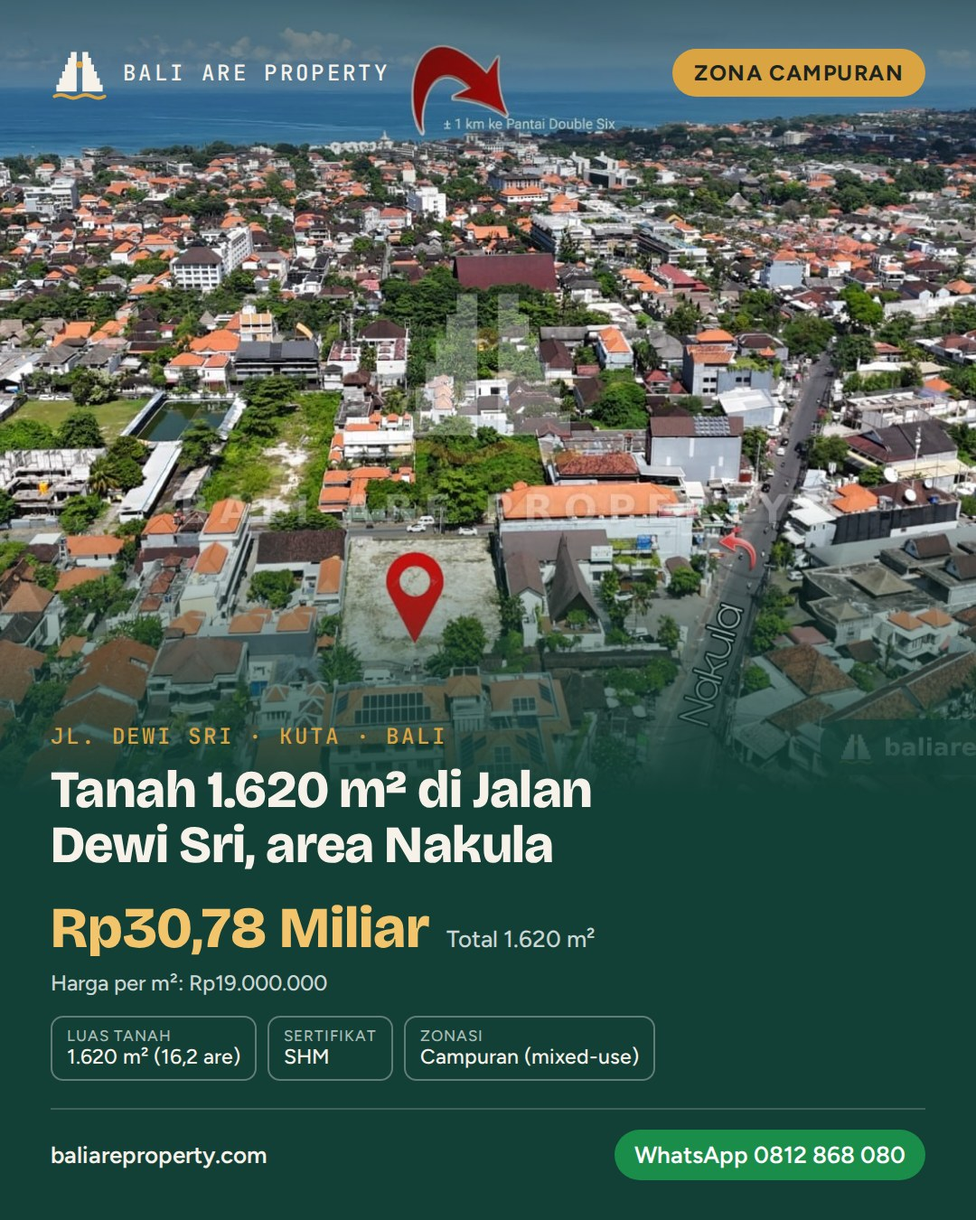
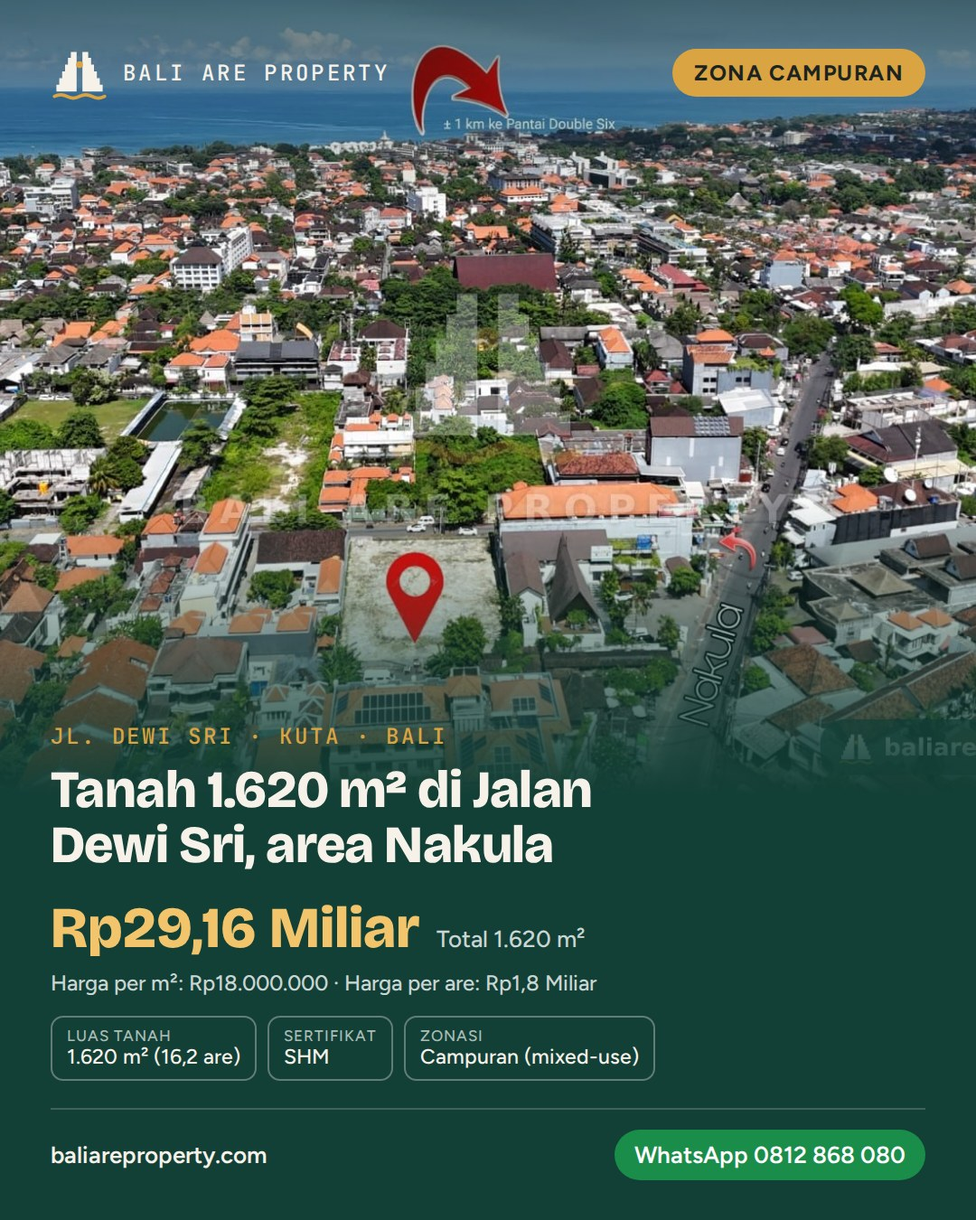
Build otomatis setelah perubahan 5272e1f

Changed region(s): [[0.1222, 0.7156, 0.6111, 0.8089]]

diff --git a/ru/listing/tanah-1620-m2-di-jalan-dewi-sri-area-nakula.html b/ru/listing/tanah-1620-m2-di-jalan-dewi-sri-area-nakula.html
@@ -148,7 +148,7 @@ footer>span{min-width:0}
 
 <title>Продажа участка 1 620 м² (смешанная зона) на Деви Шри, Кута, Бали</title>
 <!--seo-->
-<meta name="description" content="Участок 16,2 аре, SHM, смешанная зона, Джл. Деви Шри (район Накула), Кута. 19 млн IDR/м², всего 30,78 млрд IDR. Коммерческая локация. Пишите в WhatsApp.">
+<meta name="description" content="Участок 16,2 аре, SHM, смешанная зона, Джл. Деви Шри (район Накула), Кута. 18 млн IDR/м² (1,8 млрд/ар), всего 29,16 млрд IDR. Коммерческая локация. Пишите в WhatsApp.">
 <link rel="canonical" href="https://baliareproperty.com/ru/listing/tanah-1620-m2-di-jalan-dewi-sri-area-nakula.html">
 <link rel="alternate" hreflang="id" href="https://baliareproperty.com/listing/tanah-1620-m2-di-jalan-dewi-sri-area-nakula.html">
 <link rel="alternate" hreflang="en" href="https://baliareproperty.com/en/listing/tanah-1620-m2-di-jalan-dewi-sri-area-nakula.html">
@@ -164,12 +164,12 @@ footer>span{min-width:0}
 <meta property="og:type" content="website">
 <meta property="og:site_name" content="Bali Are Property">
 <meta property="og:title" content="Продажа участка 1 620 м² (смешанная зона) на Деви Шри, Кута, Бали">
-<meta property="og:description" content="Участок 16,2 аре, SHM, смешанная зона, Джл. Деви Шри (район Накула), Кута. 19 млн IDR/м², всего 30,78 млрд IDR. Коммерческая локация. Пишите в WhatsApp.">
+<meta property="og:description" content="Участок 16,2 аре, SHM, смешанная зона, Джл. Деви Шри (район Накула), Кута. 18 млн IDR/м² (1,8 млрд/ар), всего 29,16 млрд IDR. Коммерческая локация. Пишите в WhatsApp.">
 <meta property="og:url" content="https://baliareproperty.com/ru/listing/tanah-1620-m2-di-jalan-dewi-sri-area-nakula.html">
 <meta property="og:image" content="https://baliareproperty.com/img/wm/tanah-1620-m2-di-jalan-dewi-sri-area-nakula/1.jpg">
 <meta property="og:locale" content="ru_RU">
 <meta name="twitter:card" content="summary_large_image">
-<script type="application/ld+json">{"@context":"https://schema.org","@graph":[{"@type":"RealEstateAgent","@id":"https://baliareproperty.com/#agent","name":"Bali Are Property","url":"https://baliareproperty.com/","telephone":"+62812868080","image":"https://baliareproperty.com/og.png","logo":"https://baliareproperty.com/logo.png","areaServed":{"@type":"Place","name":"Bali, Indonesia"},"address":{"@type":"PostalAddress","addressRegion":"Bali","addressCountry":"ID"}},{"@type":"RealEstateListing","name":"Участок 1 620 м² на Jalan Dewi Sri, район Накула","description":"Участок 16,2 аре, SHM, смешанная зона, Джл. Деви Шри (район Накула), Кута. 19 млн IDR/м², всего 30,78 млрд IDR. Коммерческая локация. Пишите в WhatsApp.","url":"https://baliareproperty.com/ru/listing/tanah-1620-m2-di-jalan-dewi-sri-area-nakula.html","inLanguage":"ru","image":["https://baliareproperty.com/img/wm/tanah-1620-m2-di-jalan-dewi-sri-area-nakula/1.jpg","https://baliareproperty.com/img/wm/tanah-1620-m2-di-jalan-dewi-sri-area-nakula/2.jpg","https://baliareproperty.com/img/wm/tanah-1620-m2-di-jalan-dewi-sri-area-nakula/3.jpg"],"contentLocation":{"@type":"Place","name":"Jl. Dewi Sri, Kuta, Bali, Indonesia","address":{"@type":"PostalAddress","streetAddress":"Jl. Dewi Sri","addressLocality":"Kuta","addressRegion":"Bali","addressCountry":"ID"}},"additionalProperty":[{"@type":"PropertyValue","name":"Площадь участка","value":"1 620 м² (16,2 ар)"},{"@type":"PropertyValue","name":"Размеры","value":"30 × 54 м"},{"@type":"PropertyValue","name":"Документ","value":"SHM"},{"@type":"PropertyValue","name":"Зонирование","value":"Смешанная"},{"@type":"PropertyValue","name":"Ориентация","value":"Запад"},{"@type":"PropertyValue","name":"Локация","value":"Jl. Dewi Sri, Накула"}],"offers":{"@type":"Offer","priceCurrency":"IDR","availability":"https://schema.org/InStock","seller":{"@id":"https://baliareproperty.com/#agent"},"price":30780000000}},{"@type":"BreadcrumbList","itemListElement":[{"@type":"ListItem","position":1,"name":"Bali Are Property","item":"https://baliareproperty.com/ru/"},{"@type":"ListItem","position":2,"name":"Земля, виллы и дома на продажу на Бали – объекты | Bali Are Property","item":"https://baliareproperty.com/ru/listings.html"},{"@type":"ListItem","position":3,"name":"Участок 1 620 м² на Jalan Dewi Sri, район Накула","item":"https://baliareproperty.com/ru/listing/tanah-1620-m2-di-jalan-dewi-sri-area-nakula.html"}]}]}</script>
+<script type="application/ld+json">{"@context":"https://schema.org","@graph":[{"@type":"RealEstateAgent","@id":"https://baliareproperty.com/#agent","name":"Bali Are Property","url":"https://baliareproperty.com/","telephone":"+62812868080","image":"https://baliareproperty.com/og.png","logo":"https://baliareproperty.com/logo.png","areaServed":{"@type":"Place","name":"Bali, Indonesia"},"address":{"@type":"PostalAddress","addressRegion":"Bali","addressCountry":"ID"}},{"@type":"RealEstateListing","name":"Участок 1 620 м² на Jalan Dewi Sri, район Накула","description":"Участок 16,2 аре, SHM, смешанная зона, Джл. Деви Шри (район Накула), Кута. 18 млн IDR/м² (1,8 млрд/ар), всего 29,16 млрд IDR. Коммерческая локация. Пишите в WhatsApp.","url":"https://baliareproperty.com/ru/listing/tanah-1620-m2-di-jalan-dewi-sri-area-nakula.html","inLanguage":"ru","image":["https://baliareproperty.com/img/wm/tanah-1620-m2-di-jalan-dewi-sri-area-nakula/1.jpg","https://baliareproperty.com/img/wm/tanah-1620-m2-di-jalan-dewi-sri-area-nakula/2.jpg","https://baliareproperty.com/img/wm/tanah-1620-m2-di-jalan-dewi-sri-area-nakula/3.jpg"],"contentLocation":{"@type":"Place","name":"Jl. Dewi Sri, Kuta, Bali, Indonesia","address":{"@type":"PostalAddress","streetAddress":"Jl. Dewi Sri","addressLocality":"Kuta","addressRegion":"Bali","addressCountry":"ID"}},"additionalProperty":[{"@type":"PropertyValue","name":"Площадь участка","value":"1 620 м² (16,2 ар)"},{"@type":"PropertyValue","name":"Размеры","value":"30 × 54 м"},{"@type":"PropertyValue","name":"Документ","value":"SHM"},{"@type":"PropertyValue","name":"Зонирование","value":"Смешанная"},{"@type":"PropertyValue","name":"Ориентация","value":"Запад"},{"@type":"PropertyValue","name":"Локация","value":"Jl. Dewi Sri, Накула"}],"offers":{"@type":"Offer","priceCurrency":"IDR","availability":"https://schema.org/InStock","seller":{"@id":"https://baliareproperty.com/#agent"},"price":29160000000}},{"@type":"BreadcrumbList","itemListElement":[{"@type":"ListItem","position":1,"name":"Bali Are Property","item":"https://baliareproperty.com/ru/"},{"@type":"ListItem","position":2,"name":"Земля, виллы и дома на продажу на Бали – объекты | Bali Are Property","item":"https://baliareproperty.com/ru/listings.html"},{"@type":"ListItem","position":3,"name":"Участок 1 620 м² на Jalan Dewi Sri, район Накула","item":"https://baliareproperty.com/ru/listing/tanah-1620-m2-di-jalan-dewi-sri-area-nakula.html"}]}]}</script>
 <!--/seo-->
 <style>
 .lp-head{display:flex;flex-direction:column;gap:6px;padding-block:28px 18px}
@@ -273,8 +273,9 @@ main .cta-duo{margin-top:0}
 
         <div class="gallery n3"><a href="../../img/wm/tanah-1620-m2-di-jalan-dewi-sri-area-nakula/1.jpg" target="_blank" rel="noopener"><img src="../../img/wm/tanah-1620-m2-di-jalan-dewi-sri-area-nakula/1.jpg" alt="Фото 1 – Участок 1 620 м² на Jalan Dewi Sri, район Накула" loading="eager" decoding="async"></a><a href="../../img/wm/tanah-1620-m2-di-jalan-dewi-sri-area-nakula/2.jpg" target="_blank" rel="noopener"><img src="../../img/wm/tanah-1620-m2-di-jalan-dewi-sri-area-nakula/2.jpg" alt="Фото 2 – Участок 1 620 м² на Jalan Dewi Sri, район Накула" loading="lazy" decoding="async"></a><a href="../../img/wm/tanah-1620-m2-di-jalan-dewi-sri-area-nakula/3.jpg" target="_blank" rel="noopener"><img src="../../img/wm/tanah-1620-m2-di-jalan-dewi-sri-area-nakula/3.jpg" alt="Фото 3 – Участок 1 620 м² на Jalan Dewi Sri, район Накула" loading="lazy" decoding="async"></a></div>
         <div class="price">
-          <div><small>Цена за м²</small><b>Rp19&nbsp;000&nbsp;000</b></div>
-          <div class="hl"><small>Итого 1&nbsp;620 м²</small><b>Rp30,78 млрд</b></div>
+          <div><small>Цена за м²</small><b>Rp18&nbsp;000&nbsp;000</b></div>
+          <div><small>Цена за ар</small><b>Rp1,8 млрд</b></div>
+          <div class="hl"><small>Итого 1&nbsp;620 м²</small><b>Rp29,16 млрд</b></div>
         </div>
 
         <dl class="specs">

diff --git a/listing/tanah-1620-m2-di-jalan-dewi-sri-area-nakula.html b/listing/tanah-1620-m2-di-jalan-dewi-sri-area-nakula.html
@@ -148,7 +148,7 @@ footer>span{min-width:0}
 
 <title>Dijual Tanah 1.620 m² Zona Campuran di Jalan Dewi Sri, Kuta Bali</title>
 <!--seo-->
-<meta name="description" content="Tanah 16,2 are SHM, zonasi campuran (mixed-use) di Jl. Dewi Sri area Nakula, Kuta. Rp19 jt/m², total Rp30,78 M. Lokasi komersial strategis. Tanya via WhatsApp.">
+<meta name="description" content="Tanah 16,2 are SHM, zonasi campuran (mixed-use) di Jl. Dewi Sri area Nakula, Kuta. Rp18 jt/m² (Rp1,8 M/are), total Rp29,16 M. Lokasi komersial strategis. Tanya via WhatsApp.">
 <link rel="canonical" href="https://baliareproperty.com/listing/tanah-1620-m2-di-jalan-dewi-sri-area-nakula.html">
 <link rel="alternate" hreflang="id" href="https://baliareproperty.com/listing/tanah-1620-m2-di-jalan-dewi-sri-area-nakula.html">
 <link rel="alternate" hreflang="en" href="https://baliareproperty.com/en/listing/tanah-1620-m2-di-jalan-dewi-sri-area-nakula.html">
@@ -164,12 +164,12 @@ footer>span{min-width:0}
 <meta property="og:type" content="website">
 <meta property="og:site_name" content="Bali Are Property">
 <meta property="og:title" content="Dijual Tanah 1.620 m² Zona Campuran di Jalan Dewi Sri, Kuta Bali">
-<meta property="og:description" content="Tanah 16,2 are SHM, zonasi campuran (mixed-use) di Jl. Dewi Sri area Nakula, Kuta. Rp19 jt/m², total Rp30,78 M. Lokasi komersial strategis. Tanya via WhatsApp.">
+<meta property="og:description" content="Tanah 16,2 are SHM, zonasi campuran (mixed-use) di Jl. Dewi Sri area Nakula, Kuta. Rp18 jt/m² (Rp1,8 M/are), total Rp29,16 M. Lokasi komersial strategis. Tanya via WhatsApp.">
 <meta property="og:url" content="https://baliareproperty.com/listing/tanah-1620-m2-di-jalan-dewi-sri-area-nakula.html">
 <meta property="og:image" content="https://baliareproperty.com/img/wm/tanah-1620-m2-di-jalan-dewi-sri-area-nakula/1.jpg">
 <meta property="og:locale" content="id_ID">
 <meta name="twitter:card" content="summary_large_image">
-<script type="application/ld+json">{"@context":"https://schema.org","@graph":[{"@type":"RealEstateAgent","@id":"https://baliareproperty.com/#agent","name":"Bali Are Property","url":"https://baliareproperty.com/","telephone":"+62812868080","image":"https://baliareproperty.com/og.png","logo":"https://baliareproperty.com/logo.png","areaServed":{"@type":"Place","name":"Bali, Indonesia"},"address":{"@type":"PostalAddress","addressRegion":"Bali","addressCountry":"ID"}},{"@type":"RealEstateListing","name":"Tanah 1.620 m² di Jalan Dewi Sri, area Nakula","description":"Tanah 16,2 are SHM, zonasi campuran (mixed-use) di Jl. Dewi Sri area Nakula, Kuta. Rp19 jt/m², total Rp30,78 M. Lokasi komersial strategis. Tanya via WhatsApp.","url":"https://baliareproperty.com/listing/tanah-1620-m2-di-jalan-dewi-sri-area-nakula.html","inLanguage":"id","image":["https://baliareproperty.com/img/wm/tanah-1620-m2-di-jalan-dewi-sri-area-nakula/1.jpg","https://baliareproperty.com/img/wm/tanah-1620-m2-di-jalan-dewi-sri-area-nakula/2.jpg","https://baliareproperty.com/img/wm/tanah-1620-m2-di-jalan-dewi-sri-area-nakula/3.jpg"],"contentLocation":{"@type":"Place","name":"Jl. Dewi Sri, Kuta, Bali, Indonesia","address":{"@type":"PostalAddress","streetAddress":"Jl. Dewi Sri","addressLocality":"Kuta","addressRegion":"Bali","addressCountry":"ID"}},"additionalProperty":[{"@type":"PropertyValue","name":"Luas tanah","value":"1.620 m² (16,2 are)"},{"@type":"PropertyValue","name":"Dimensi","value":"30 × 54 m"},{"@type":"PropertyValue","name":"Sertifikat","value":"SHM"},{"@type":"PropertyValue","name":"Zonasi","value":"Campuran (mixed-use)"},{"@type":"PropertyValue","name":"Hadap","value":"Barat"},{"@type":"PropertyValue","name":"Lokasi","value":"Jl. Dewi Sri, Nakula"}],"offers":{"@type":"Offer","priceCurrency":"IDR","availability":"https://schema.org/InStock","seller":{"@id":"https://baliareproperty.com/#agent"},"price":30780000000}},{"@type":"BreadcrumbList","itemListElement":[{"@type":"ListItem","position":1,"name":"Bali Are Property","item":"https://baliareproperty.com/"},{"@type":"ListItem","position":2,"name":"Tanah, Villa & Rumah Dijual di Bali – Daftar Listing | Bali Are Property","item":"https://baliareproperty.com/listings.html"},{"@type":"ListItem","position":3,"name":"Tanah 1.620 m² di Jalan Dewi Sri, area Nakula","item":"https://baliareproperty.com/listing/tanah-1620-m2-di-jalan-dewi-sri-area-nakula.html"}]}]}</script>
+<script type="application/ld+json">{"@context":"https://schema.org","@graph":[{"@type":"RealEstateAgent","@id":"https://baliareproperty.com/#agent","name":"Bali Are Property","url":"https://baliareproperty.com/","telephone":"+62812868080","image":"https://baliareproperty.com/og.png","logo":"https://baliareproperty.com/logo.png","areaServed":{"@type":"Place","name":"Bali, Indonesia"},"address":{"@type":"PostalAddress","addressRegion":"Bali","addressCountry":"ID"}},{"@type":"RealEstateListing","name":"Tanah 1.620 m² di Jalan Dewi Sri, area Nakula","description":"Tanah 16,2 are SHM, zonasi campuran (mixed-use) di Jl. Dewi Sri area Nakula, Kuta. Rp18 jt/m² (Rp1,8 M/are), total Rp29,16 M. Lokasi komersial strategis. Tanya via WhatsApp.","url":"https://baliareproperty.com/listing/tanah-1620-m2-di-jalan-dewi-sri-area-nakula.html","inLanguage":"id","image":["https://baliareproperty.com/img/wm/tanah-1620-m2-di-jalan-dewi-sri-area-nakula/1.jpg","https://baliareproperty.com/img/wm/tanah-1620-m2-di-jalan-dewi-sri-area-nakula/2.jpg","https://baliareproperty.com/img/wm/tanah-1620-m2-di-jalan-dewi-sri-area-nakula/3.jpg"],"contentLocation":{"@type":"Place","name":"Jl. Dewi Sri, Kuta, Bali, Indonesia","address":{"@type":"PostalAddress","streetAddress":"Jl. Dewi Sri","addressLocality":"Kuta","addressRegion":"Bali","addressCountry":"ID"}},"additionalProperty":[{"@type":"PropertyValue","name":"Luas tanah","value":"1.620 m² (16,2 are)"},{"@type":"PropertyValue","name":"Dimensi","value":"30 × 54 m"},{"@type":"PropertyValue","name":"Sertifikat","value":"SHM"},{"@type":"PropertyValue","name":"Zonasi","value":"Campuran (mixed-use)"},{"@type":"PropertyValue","name":"Hadap","value":"Barat"},{"@type":"PropertyValue","name":"Lokasi","value":"Jl. Dewi Sri, Nakula"}],"offers":{"@type":"Offer","priceCurrency":"IDR","availability":"https://schema.org/InStock","seller":{"@id":"https://baliareproperty.com/#agent"},"price":29160000000}},{"@type":"BreadcrumbList","itemListElement":[{"@type":"ListItem","position":1,"name":"Bali Are Property","item":"https://baliareproperty.com/"},{"@type":"ListItem","position":2,"name":"Tanah, Villa & Rumah Dijual di Bali – Daftar Listing | Bali Are Property","item":"https://baliareproperty.com/listings.html"},{"@type":"ListItem","position":3,"name":"Tanah 1.620 m² di Jalan Dewi Sri, area Nakula","item":"https://baliareproperty.com/listing/tanah-1620-m2-di-jalan-dewi-sri-area-nakula.html"}]}]}</script>
 <!--/seo-->
 <style>
 .lp-head{display:flex;flex-direction:column;gap:6px;padding-block:28px 18px}
@@ -273,8 +273,9 @@ main .cta-duo{margin-top:0}
 
         <div class="gallery n3"><a href="../img/wm/tanah-1620-m2-di-jalan-dewi-sri-area-nakula/1.jpg" target="_blank" rel="noopener"><img src="../img/wm/tanah-1620-m2-di-jalan-dewi-sri-area-nakula/1.jpg" alt="Foto 1 – Tanah 1.620 m² di Jalan Dewi Sri, area Nakula" loading="eager" decoding="async"></a><a href="../img/wm/tanah-1620-m2-di-jalan-dewi-sri-area-nakula/2.jpg" target="_blank" rel="noopener"><img src="../img/wm/tanah-1620-m2-di-jalan-dewi-sri-area-nakula/2.jpg" alt="Foto 2 – Tanah 1.620 m² di Jalan Dewi Sri, area Nakula" loading="lazy" decoding="async"></a><a href="../img/wm/tanah-1620-m2-di-jalan-dewi-sri-area-nakula/3.jpg" target="_blank" rel="noopener"><img src="../img/wm/tanah-1620-m2-di-jalan-dewi-sri-area-nakula/3.jpg" alt="Foto 3 – Tanah 1.620 m² di Jalan Dewi Sri, area Nakula" loading="lazy" decoding="async"></a></div>
         <div class="price">
-          <div><small>Harga per m²</small><b>Rp19.000.000</b></div>
-          <div class="hl"><small>Total 1.620 m²</small><b>Rp30,78 Miliar</b></div>
+          <div><small>Harga per m²</small><b>Rp18.000.000</b></div>
+          <div><small>Harga per are</small><b>Rp1,8 Miliar</b></div>
+          <div class="hl"><small>Total 1.620 m²</small><b>Rp29,16 Miliar</b></div>
         </div>
 
         <dl class="specs">

diff --git a/en/listing/tanah-1620-m2-di-jalan-dewi-sri-area-nakula.html b/en/listing/tanah-1620-m2-di-jalan-dewi-sri-area-nakula.html
@@ -148,7 +148,7 @@ footer>span{min-width:0}
 
 <title>1,620 m² Mixed-Use Land for Sale on Jalan Dewi Sri, Kuta Bali</title>
 <!--seo-->
-<meta name="description" content="16.2-are SHM plot with mixed-use zoning on Jl. Dewi Sri, Nakula area, Kuta. IDR 19M/m², IDR 30.78B total. Strategic commercial location. Ask on WhatsApp.">
+<meta name="description" content="16.2-are SHM plot with mixed-use zoning on Jl. Dewi Sri, Nakula area, Kuta. IDR 18M/m² (1.8B/are), 29.16B total. Strategic commercial location. Ask on WhatsApp.">
 <link rel="canonical" href="https://baliareproperty.com/en/listing/tanah-1620-m2-di-jalan-dewi-sri-area-nakula.html">
 <link rel="alternate" hreflang="id" href="https://baliareproperty.com/listing/tanah-1620-m2-di-jalan-dewi-sri-area-nakula.html">
 <link rel="alternate" hreflang="en" href="https://baliareproperty.com/en/listing/tanah-1620-m2-di-jalan-dewi-sri-area-nakula.html">
@@ -164,12 +164,12 @@ footer>span{min-width:0}
 <meta property="og:type" content="website">
 <meta property="og:site_name" content="Bali Are Property">
 <meta property="og:title" content="1,620 m² Mixed-Use Land for Sale on Jalan Dewi Sri, Kuta Bali">
-<meta property="og:description" content="16.2-are SHM plot with mixed-use zoning on Jl. Dewi Sri, Nakula area, Kuta. IDR 19M/m², IDR 30.78B total. Strategic commercial location. Ask on WhatsApp.">
+<meta property="og:description" content="16.2-are SHM plot with mixed-use zoning on Jl. Dewi Sri, Nakula area, Kuta. IDR 18M/m² (1.8B/are), 29.16B total. Strategic commercial location. Ask on WhatsApp.">
 <meta property="og:url" content="https://baliareproperty.com/en/listing/tanah-1620-m2-di-jalan-dewi-sri-area-nakula.html">
 <meta property="og:image" content="https://baliareproperty.com/img/wm/tanah-1620-m2-di-jalan-dewi-sri-area-nakula/1.jpg">
 <meta property="og:locale" content="en_US">
 <meta name="twitter:card" content="summary_large_image">
-<script type="application/ld+json">{"@context":"https://schema.org","@graph":[{"@type":"RealEstateAgent","@id":"https://baliareproperty.com/#agent","name":"Bali Are Property","url":"https://baliareproperty.com/","telephone":"+62812868080","image":"https://baliareproperty.com/og.png","logo":"https://baliareproperty.com/logo.png","areaServed":{"@type":"Place","name":"Bali, Indonesia"},"address":{"@type":"PostalAddress","addressRegion":"Bali","addressCountry":"ID"}},{"@type":"RealEstateListing","name":"1,620 m² land on Jalan Dewi Sri, Nakula area","description":"16.2-are SHM plot with mixed-use zoning on Jl. Dewi Sri, Nakula area, Kuta. IDR 19M/m², IDR 30.78B total. Strategic commercial location. Ask on WhatsApp.","url":"https://baliareproperty.com/en/listing/tanah-1620-m2-di-jalan-dewi-sri-area-nakula.html","inLanguage":"en","image":["https://baliareproperty.com/img/wm/tanah-1620-m2-di-jalan-dewi-sri-area-nakula/1.jpg","https://baliareproperty.com/img/wm/tanah-1620-m2-di-jalan-dewi-sri-area-nakula/2.jpg","https://baliareproperty.com/img/wm/tanah-1620-m2-di-jalan-dewi-sri-area-nakula/3.jpg"],"contentLocation":{"@type":"Place","name":"Jl. Dewi Sri, Kuta, Bali, Indonesia","address":{"@type":"PostalAddress","streetAddress":"Jl. Dewi Sri","addressLocality":"Kuta","addressRegion":"Bali","addressCountry":"ID"}},"additionalProperty":[{"@type":"PropertyValue","name":"Land size","value":"1,620 m² (16.2 are)"},{"@type":"PropertyValue","name":"Dimensions","value":"30 × 54 m"},{"@type":"PropertyValue","name":"Title","value":"SHM"},{"@type":"PropertyValue","name":"Zoning","value":"Mixed-use"},{"@type":"PropertyValue","name":"Facing","value":"West"},{"@type":"PropertyValue","name":"Location","value":"Jl. Dewi Sri, Nakula"}],"offers":{"@type":"Offer","priceCurrency":"IDR","availability":"https://schema.org/InStock","seller":{"@id":"https://baliareproperty.com/#agent"},"price":30780000000}},{"@type":"BreadcrumbList","itemListElement":[{"@type":"ListItem","position":1,"name":"Bali Are Property","item":"https://baliareproperty.com/en/"},{"@type":"ListItem","position":2,"name":"Land, Villas & Houses for Sale in Bali – Listings | Bali Are Property","item":"https://baliareproperty.com/en/listings.html"},{"@type":"ListItem","position":3,"name":"1,620 m² land on Jalan Dewi Sri, Nakula area","item":"https://baliareproperty.com/en/listing/tanah-1620-m2-di-jalan-dewi-sri-area-nakula.html"}]}]}</script>
+<script type="application/ld+json">{"@context":"https://schema.org","@graph":[{"@type":"RealEstateAgent","@id":"https://baliareproperty.com/#agent","name":"Bali Are Property","url":"https://baliareproperty.com/","telephone":"+62812868080","image":"https://baliareproperty.com/og.png","logo":"https://baliareproperty.com/logo.png","areaServed":{"@type":"Place","name":"Bali, Indonesia"},"address":{"@type":"PostalAddress","addressRegion":"Bali","addressCountry":"ID"}},{"@type":"RealEstateListing","name":"1,620 m² land on Jalan Dewi Sri, Nakula area","description":"16.2-are SHM plot with mixed-use zoning on Jl. Dewi Sri, Nakula area, Kuta. IDR 18M/m² (1.8B/are), 29.16B total. Strategic commercial location. Ask on WhatsApp.","url":"https://baliareproperty.com/en/listing/tanah-1620-m2-di-jalan-dewi-sri-area-nakula.html","inLanguage":"en","image":["https://baliareproperty.com/img/wm/tanah-1620-m2-di-jalan-dewi-sri-area-nakula/1.jpg","https://baliareproperty.com/img/wm/tanah-1620-m2-di-jalan-dewi-sri-area-nakula/2.jpg","https://baliareproperty.com/img/wm/tanah-1620-m2-di-jalan-dewi-sri-area-nakula/3.jpg"],"contentLocation":{"@type":"Place","name":"Jl. Dewi Sri, Kuta, Bali, Indonesia","address":{"@type":"PostalAddress","streetAddress":"Jl. Dewi Sri","addressLocality":"Kuta","addressRegion":"Bali","addressCountry":"ID"}},"additionalProperty":[{"@type":"PropertyValue","name":"Land size","value":"1,620 m² (16.2 are)"},{"@type":"PropertyValue","name":"Dimensions","value":"30 × 54 m"},{"@type":"PropertyValue","name":"Title","value":"SHM"},{"@type":"PropertyValue","name":"Zoning","value":"Mixed-use"},{"@type":"PropertyValue","name":"Facing","value":"West"},{"@type":"PropertyValue","name":"Location","value":"Jl. Dewi Sri, Nakula"}],"offers":{"@type":"Offer","priceCurrency":"IDR","availability":"https://schema.org/InStock","seller":{"@id":"https://baliareproperty.com/#agent"},"price":29160000000}},{"@type":"BreadcrumbList","itemListElement":[{"@type":"ListItem","position":1,"name":"Bali Are Property","item":"https://baliareproperty.com/en/"},{"@type":"ListItem","position":2,"name":"Land, Villas & Houses for Sale in Bali – Listings | Bali Are Property","item":"https://baliareproperty.com/en/listings.html"},{"@type":"ListItem","position":3,"name":"1,620 m² land on Jalan Dewi Sri, Nakula area","item":"https://baliareproperty.com/en/listing/tanah-1620-m2-di-jalan-dewi-sri-area-nakula.html"}]}]}</script>
 <!--/seo-->
 <style>
 .lp-head{display:flex;flex-direction:column;gap:6px;padding-block:28px 18px}
@@ -273,8 +273,9 @@ main .cta-duo{margin-top:0}
 
         <div class="gallery n3"><a href="../../img/wm/tanah-1620-m2-di-jalan-dewi-sri-area-nakula/1.jpg" target="_blank" rel="noopener"><img src="../../img/wm/tanah-1620-m2-di-jalan-dewi-sri-area-nakula/1.jpg" alt="Photo 1 – 1,620 m² land on Jalan Dewi Sri, Nakula area" loading="eager" decoding="async"></a><a href="../../img/wm/tanah-1620-m2-di-jalan-dewi-sri-area-nakula/2.jpg" target="_blank" rel="noopener"><img src="../../img/wm/tanah-1620-m2-di-jalan-dewi-sri-area-nakula/2.jpg" alt="Photo 2 – 1,620 m² land on Jalan Dewi Sri, Nakula area" loading="lazy" decoding="async"></a><a href="../../img/wm/tanah-1620-m2-di-jalan-dewi-sri-area-nakula/3.jpg" target="_blank" rel="noopener"><img src="../../img/wm/tanah-1620-m2-di-jalan-dewi-sri-area-nakula/3.jpg" alt="Photo 3 – 1,620 m² land on Jalan Dewi Sri, Nakula area" loading="lazy" decoding="async"></a></div>
         <div class="price">
-          <div><small>Price per m²</small><b>Rp19,000,000</b></div>
-          <div class="hl"><small>Total 1,620 m²</small><b>Rp30.78 billion</b></div>
+          <div><small>Price per m²</small><b>Rp18,000,000</b></div>
+          <div><small>Price per are</small><b>Rp1.8 billion</b></div>
+          <div class="hl"><small>Total 1,620 m²</small><b>Rp29.16 billion</b></div>
         </div>
 
         <dl class="specs">

diff --git a/ru/listings.html b/ru/listings.html
@@ -1087,8 +1087,9 @@ footer>span{min-width:0}
         </div>
 
         <div class="price">
-          <div><small>Цена за м²</small><b>Rp19&nbsp;000&nbsp;000</b></div>
-          <div class="hl"><small>Итого 1&nbsp;620 м²</small><b>Rp30,78 млрд</b></div>
+          <div><small>Цена за м²</small><b>Rp18&nbsp;000&nbsp;000</b></div>
+          <div><small>Цена за ар</small><b>Rp1,8 млрд</b></div>
+          <div class="hl"><small>Итого 1&nbsp;620 м²</small><b>Rp29,16 млрд</b></div>
         </div>
 
         <dl class="specs">

diff --git a/en/listings.html b/en/listings.html
@@ -1087,8 +1087,9 @@ footer>span{min-width:0}
         </div>
 
         <div class="price">
-          <div><small>Price per m²</small><b>Rp19,000,000</b></div>
-          <div class="hl"><small>Total 1,620 m²</small><b>Rp30.78 billion</b></div>
+          <div><small>Price per m²</small><b>Rp18,000,000</b></div>
+          <div><small>Price per are</small><b>Rp1.8 billion</b></div>
+          <div class="hl"><small>Total 1,620 m²</small><b>Rp29.16 billion</b></div>
         </div>
 
         <dl class="specs">
